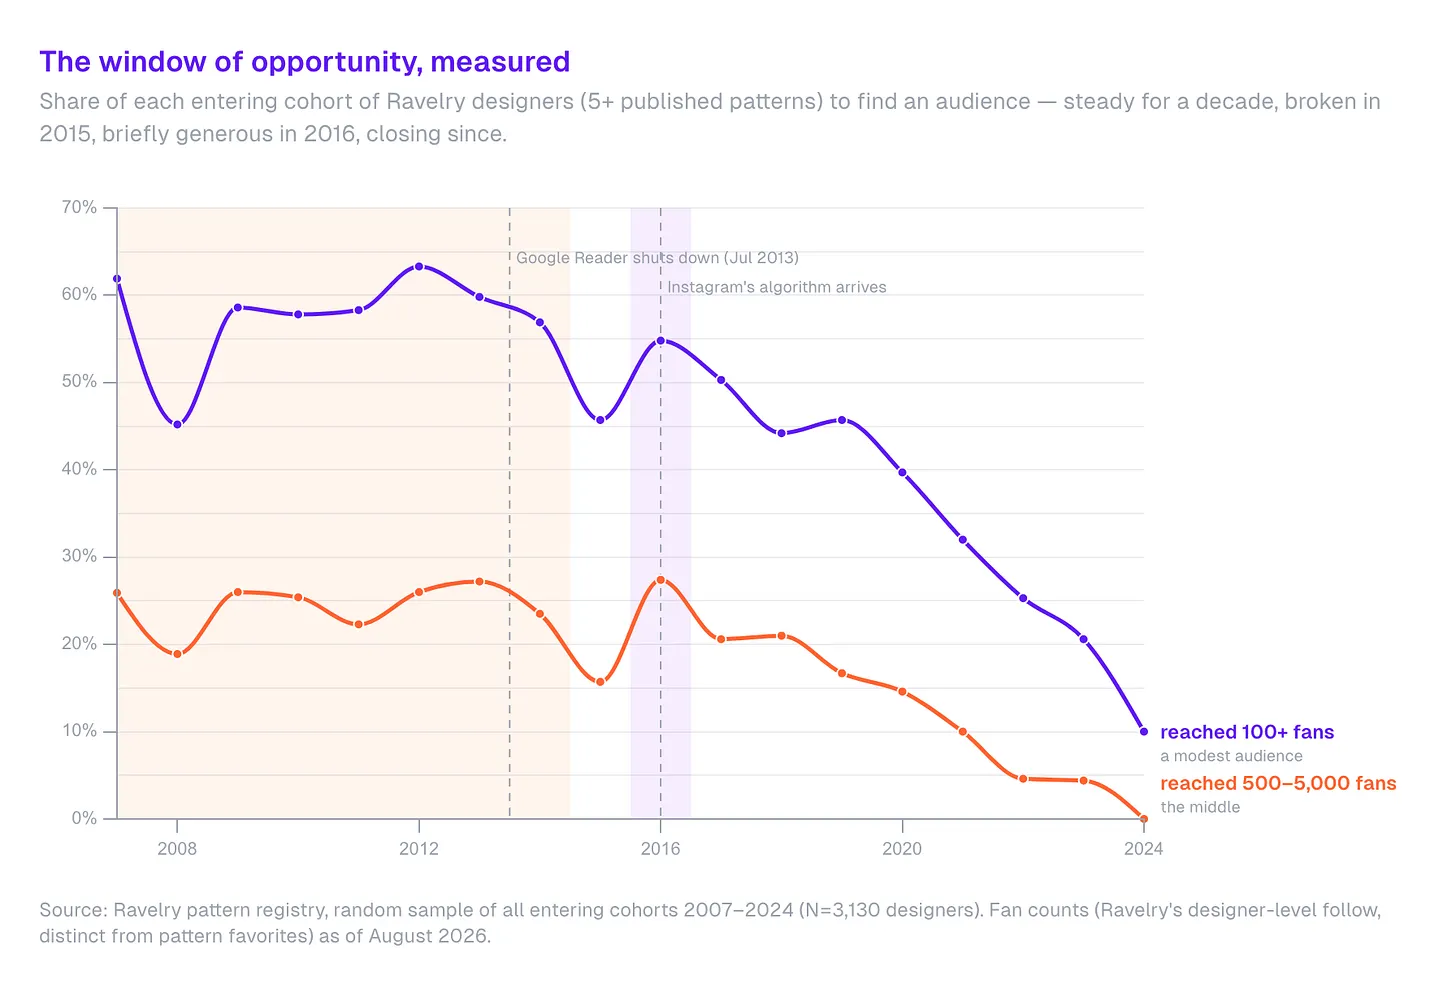
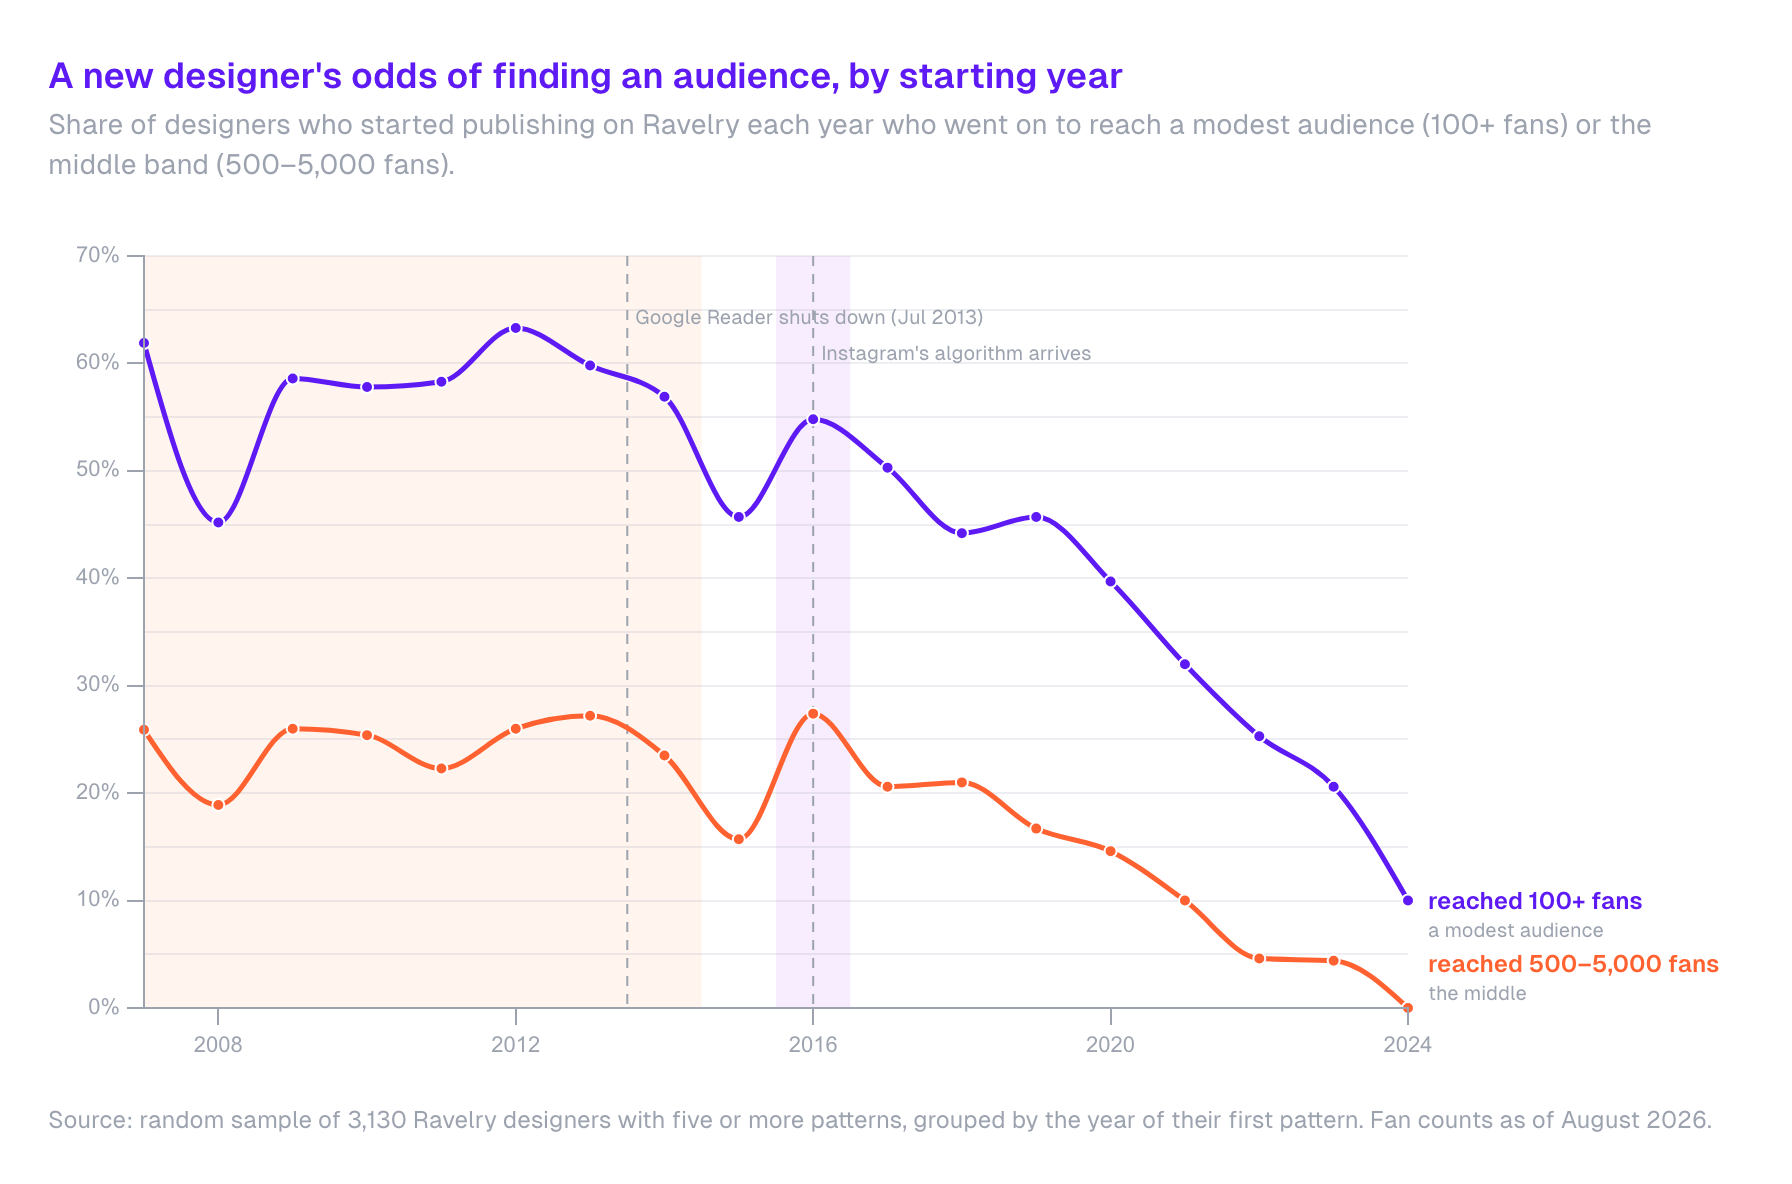
Matted project previews, new project images, and on-site essay links
- Project previews sit on a 16:10 neutral mat that shows the whole
  screenshot with a soft shadow, instead of cropping it to fill the box.
  The mat can't be stretched by tall images, so cards line up.
- Serve responsive image sizes at higher quality so previews stay sharp
  on 2x screens.
- New featured images for The Closing Window, The Language of Work, and
  Hive-ly, plus the success timeline on the Closing Window page.
- Point six project links at the essays now hosted on the site.

diff --git a/src/styles/global.css b/src/styles/global.css
@@ -213,12 +213,25 @@ html.reveal-ready .reveal-stagger:not(.is-visible) > * {
 	@apply shrink-0 rounded-full object-contain p-1;
 }
 
-.project-preview-image {
-	@apply aspect-[16/10] w-full object-cover object-left-top;
+/* A 16:10 mat that shows the whole screenshot, whatever its shape. */
+.project-preview {
+	@apply flex aspect-[16/10] min-h-0 w-full items-center justify-center overflow-hidden bg-surface-sunken/5 p-4 md:p-6;
 }
 
-.project-preview-image--framed {
+
+.project-preview--framed {
 	@apply rounded-md;
+}
+
+/*
+ * Sized to the screenshot itself (never past the mat's padded box), so the
+ * shadow hugs the image. The mat's min-h-0 keeps a tall image from growing it.
+ */
+.project-preview-image {
+	@apply h-auto max-h-full w-auto max-w-full rounded-sm object-contain;
+	box-shadow:
+		0 1px 2px color-mix(in srgb, var(--color-text) 8%, transparent),
+		0 6px 16px -6px color-mix(in srgb, var(--color-text) 18%, transparent);
 }
 
 .editorial-prose {

diff --git a/src/content/projects/closing-window/index.md b/src/content/projects/closing-window/index.md
@@ -32,6 +32,8 @@ Among sampled designers who started between 2007 and 2014, about 60% reached 100
 
 Current totals alone can't show how quickly an audience grew. I used Wayback Machine snapshots to reconstruct the catalogs of six successful designers and examine how patterns accumulated favorites after publication. The historical research also draws on archived Instagram profiles.
 
+![Dot timeline titled “How much work success takes,” showing every pattern released by 18 of Ravelry’s most successful knitting designers from 2006 to 2026, one dot per pattern sized by favorites, with rows sorted by when each designer started. Early designers like Norah Gaughan and Jared Flood begin before Ravelry launched; later entrants like Andrea Mowry, PetiteKnit and Caitlin Hunter start around 2015 and 2016 and release patterns densely from the start, while the most recent, saskie&co and Pope Vergara, publish just as often but with smaller dots. Lines mark Ravelry launching, Google Reader shutting down and Instagram’s feed going algorithmic.](./success-timeline.png)
+
 In that six-designer sample, hit patterns received about 52% of their lifetime favorites in the first year and 84% in the first five. This helped me investigate whether earlier designers' higher totals could be explained by having more time to accumulate attention. The small sample of successful designers limits how far those findings can be generalized.
 
 The study suggests that newer designers have a harder time finding an audience, but it doesn't establish the cause. Changes in discovery through blogs and social platforms are a possible explanation, discussed separately from the measured results.
@@ -45,7 +47,7 @@ The interactive study presents the findings alongside the methods and checks beh
 ## Read it
 
 - [The Closing Window — the interactive study](https://ravelry-study.netlify.app/)
-- [Right on Time — the essay](https://beccabailey.substack.com/p/right-on-time)
+- [Right on Time — the essay](/writing/right-on-time)
 - [Source on GitHub](https://github.com/becca-bailey/ravelry-study)
 
 ## Talk about this research

diff --git a/src/content/projects/language-of-work/index.md b/src/content/projects/language-of-work/index.md
@@ -47,12 +47,12 @@ I use AI to help synthesize my drafts and the data into story prose, then review
 
 ## Related writing
 
-- [Masculine Energy](https://beccabailey.substack.com/p/masculine-energy)
-- [Deeply Resentful](https://beccabailey.substack.com/p/deeply-resentful)
+- [Masculine Energy](/writing/masculine-energy)
+- [Deeply Resentful](/writing/deeply-resentful)
 - [The Death of Changing the World](https://open.substack.com/pub/beccabailey/p/the-death-of-changing-the-world)
-- [A Team, Not a Family](https://open.substack.com/pub/beccabailey/p/a-team-not-a-family)
-- [Millennials Were Supposed to Fix Work](https://beccabailey.substack.com/p/bb503447-8aa3-4e59-af99-bb62c57f8a02)
-- [Dark Places](https://beccabailey.substack.com/p/dark-places)
+- [A Team, Not a Family](/writing/a-team-not-a-family)
+- [Millennials Were Supposed to Fix Work](/writing/millennials-were-supposed-to-fix)
+- [Dark Places](/writing/dark-places)
 
 ## Related work
 
